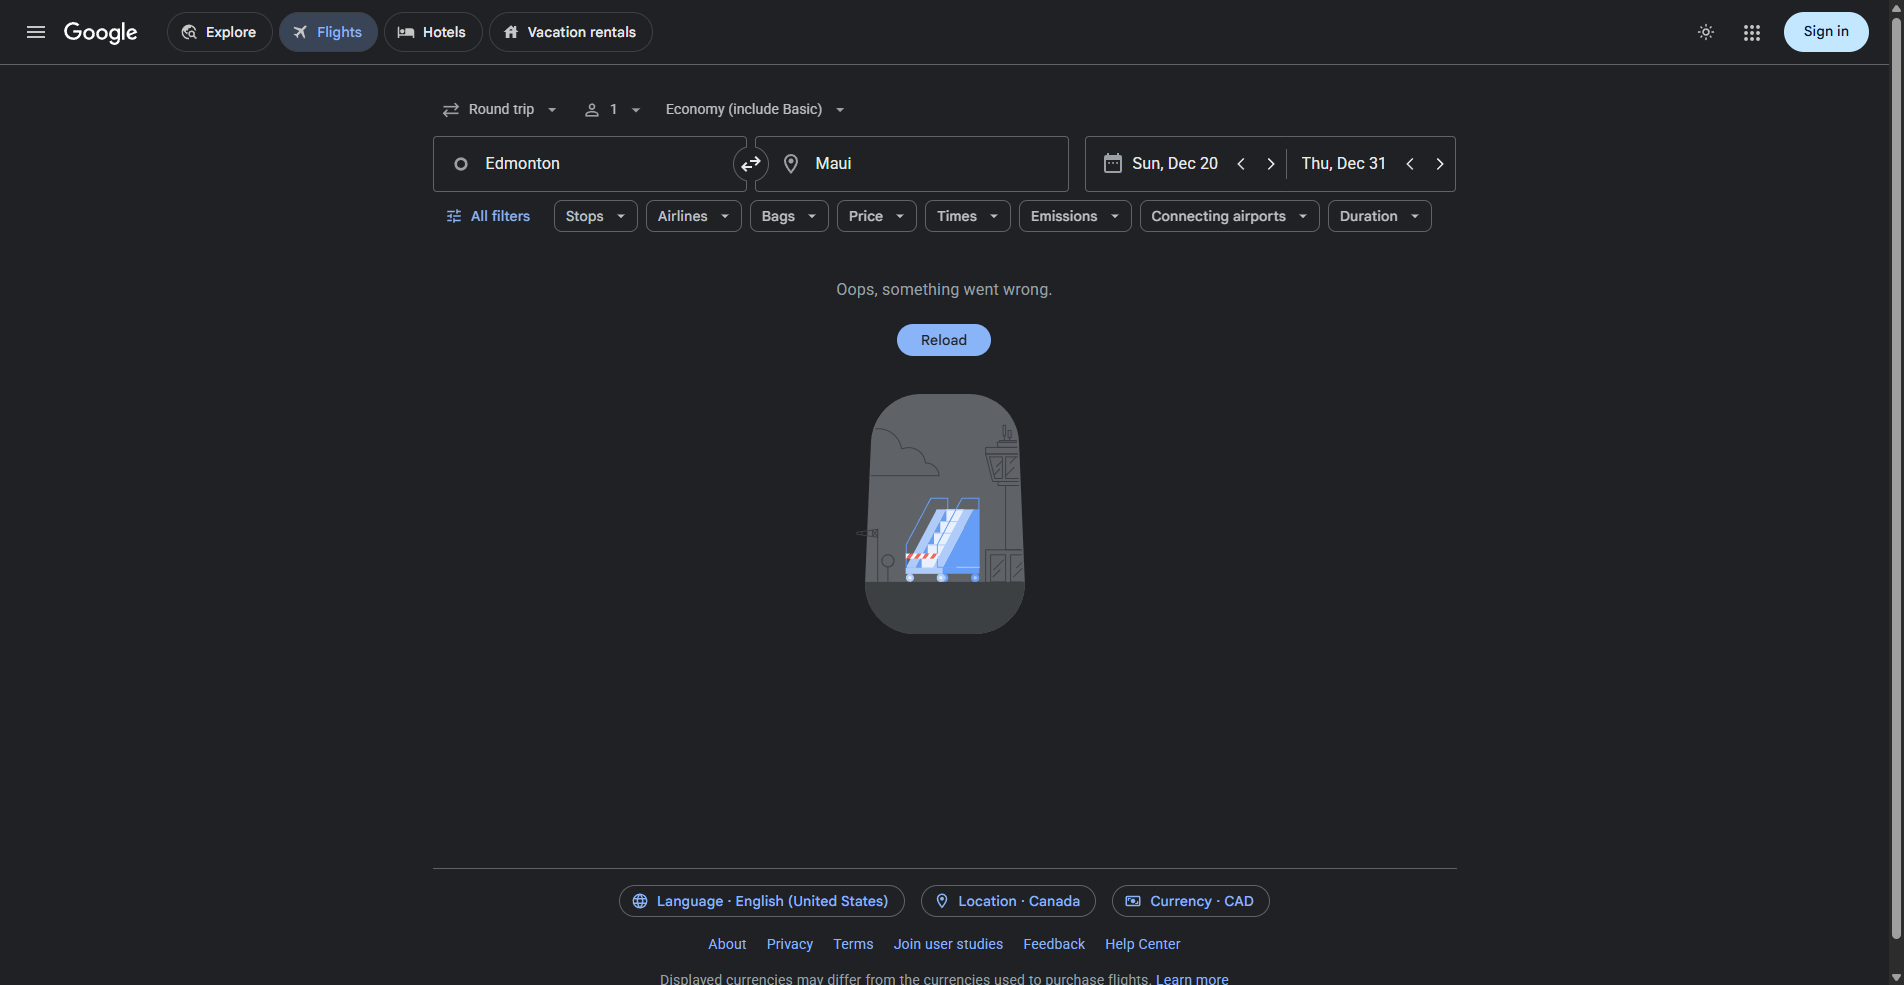
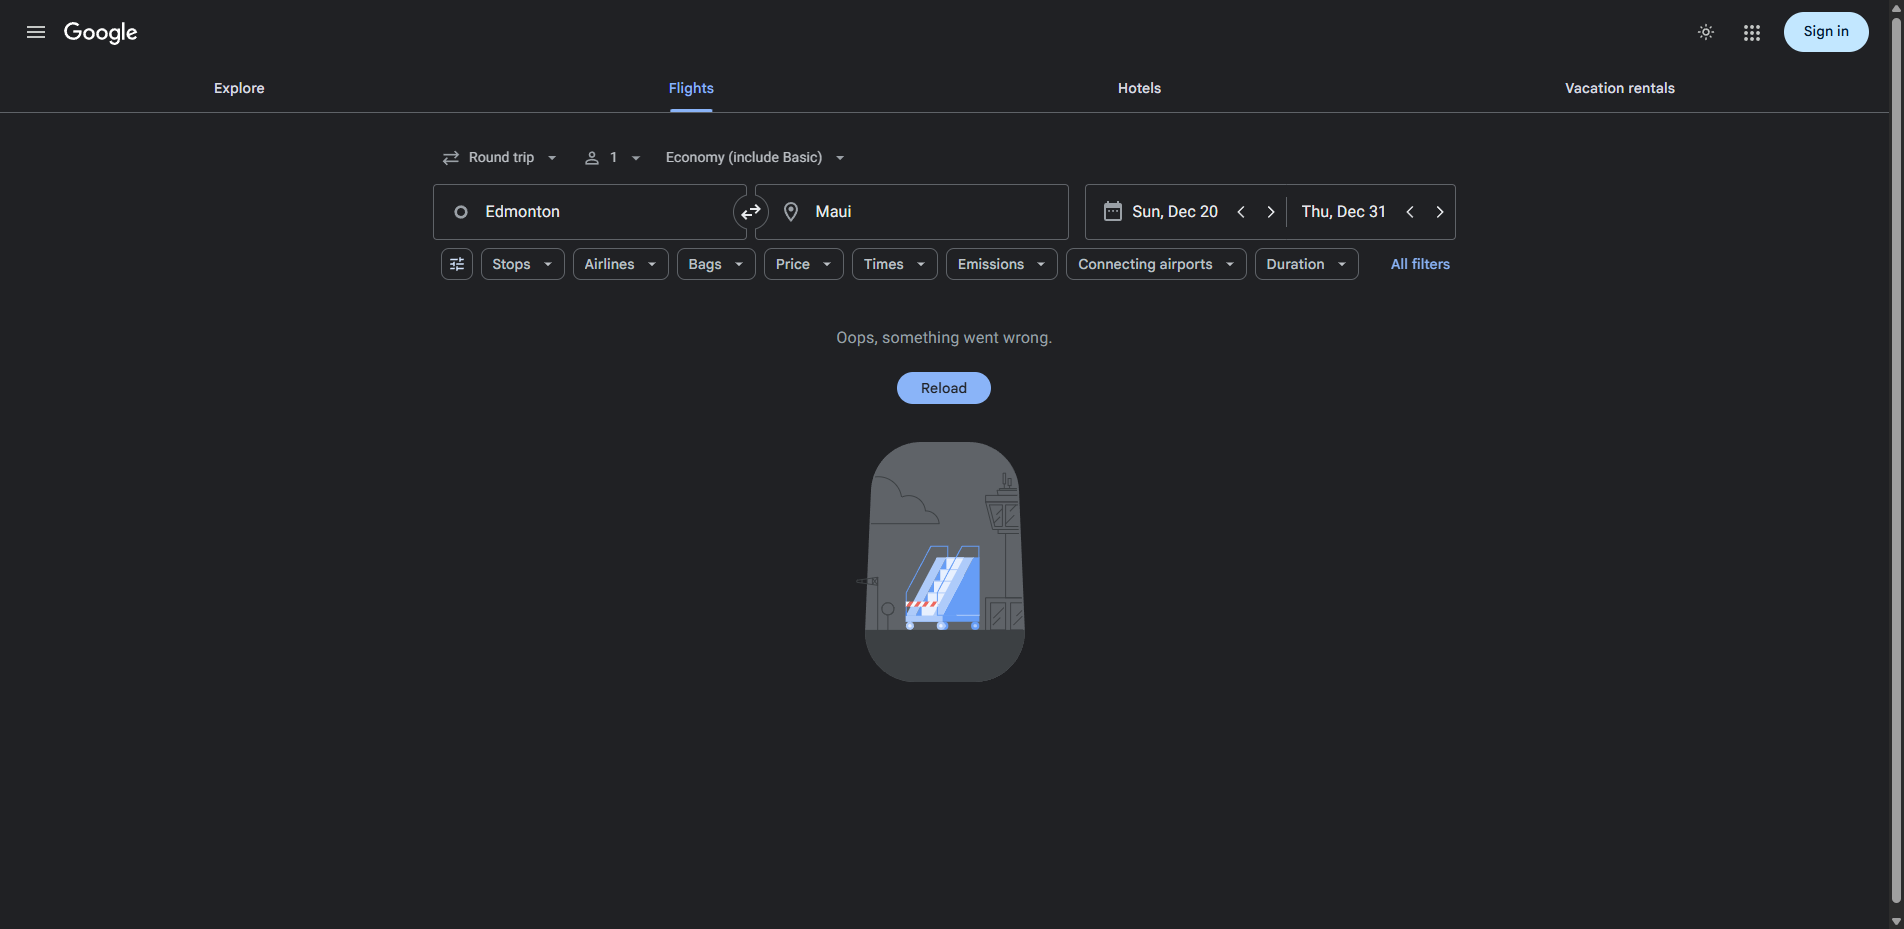
created database bronze layer table, working on inserting data into bronze layer

diff --git a/bronze_layer_insert.py b/bronze_layer_insert.py
@@ -1,0 +1,42 @@
+import psycopg2
+import json
+from create_database import connect_to_server, get_credentials
+from webscraper import ScrapeFlights
+
+# username, password, port = get_credentials("ticket-price-comparer")
+username, password, port = get_credentials() # use default login for now until webapp is ready to get users properly
+
+# connect to the ticket_price_comparer database
+connection = connect_to_server(username, password, port, "ticket_price_comparer")
+
+cursor = connection.cursor()
+connection.autocommit = True
+
+try: 
+    cursor.execute( 
+        """ 
+            INSERT INTO flights (title, airline, price, departure_date, return_date, departure_time, arrival_time, duration, stops)
+            VALUES (flights[0]['title'], flights[0]['airline']), flights[0]['price'], flights[0]['departure_date'], )
+        """
+    )
+except Exception as error:
+    print(f"Error while fetching data: {error}")
+
+finally:
+    # close the cursor and connection when done
+    if cursor:
+        cursor.close()
+    if connection:
+        connection.close()
+
+'''
+    print('title', flights[0]['title'])  
+    print('airline', flights[0]['airline'])
+    print('price', flights[0]['price'])
+    print('departure_date', flights[0]['departure_date'])
+    print('return_date', flights[0]['return_date'])
+    print('departure_time', flights[0]['departure_time'])
+    print('arrival_time', flights[0]['arrival_time'])
+    print('duration', flights[0]['duration'])
+    print('stops', flights[0]['stops'])
+'''

diff --git a/webscraper.py b/webscraper.py
@@ -68,8 +68,8 @@ class ScrapeFlights():
         opts.add_argument(
             f"user-agent={user_string}"
         )
-        # self.driver = webdriver.Chrome(options=opts)
-        self.driver = uc.Chrome(options=opts) # use undetected_chromedriver because google blocks default selenium headless
+        self.driver = webdriver.Chrome(options=opts)
+        #self.driver = uc.Chrome(options=opts) # use undetected_chromedriver because google blocks default selenium headless
 
 
     def extractDatesFromUrl(self, url: str) -> dict:
@@ -206,8 +206,9 @@ if __name__ == "__main__":
     flights = scrape.run()
     # printing flight info
     # for i, f in enumerate(flights):
-    #     print(f"[{i}] {f['airline']} | {f['price']} | "
-    #           f"{f['departure']} → {f['arrival']} | "
+    #     print(f"[{i}] {f['title']} | {f['airline']} | {f['price']} | "
+    #           f"{f['departure_date']} → {f['return_date']} | "
+    #           f"{f['departure_time']} → {f['arrival_time']} | "
     #           f"{f['duration']} | {f['stops']}")  
     print('title', flights[0]['title'])  
     print('airline', flights[0]['airline'])